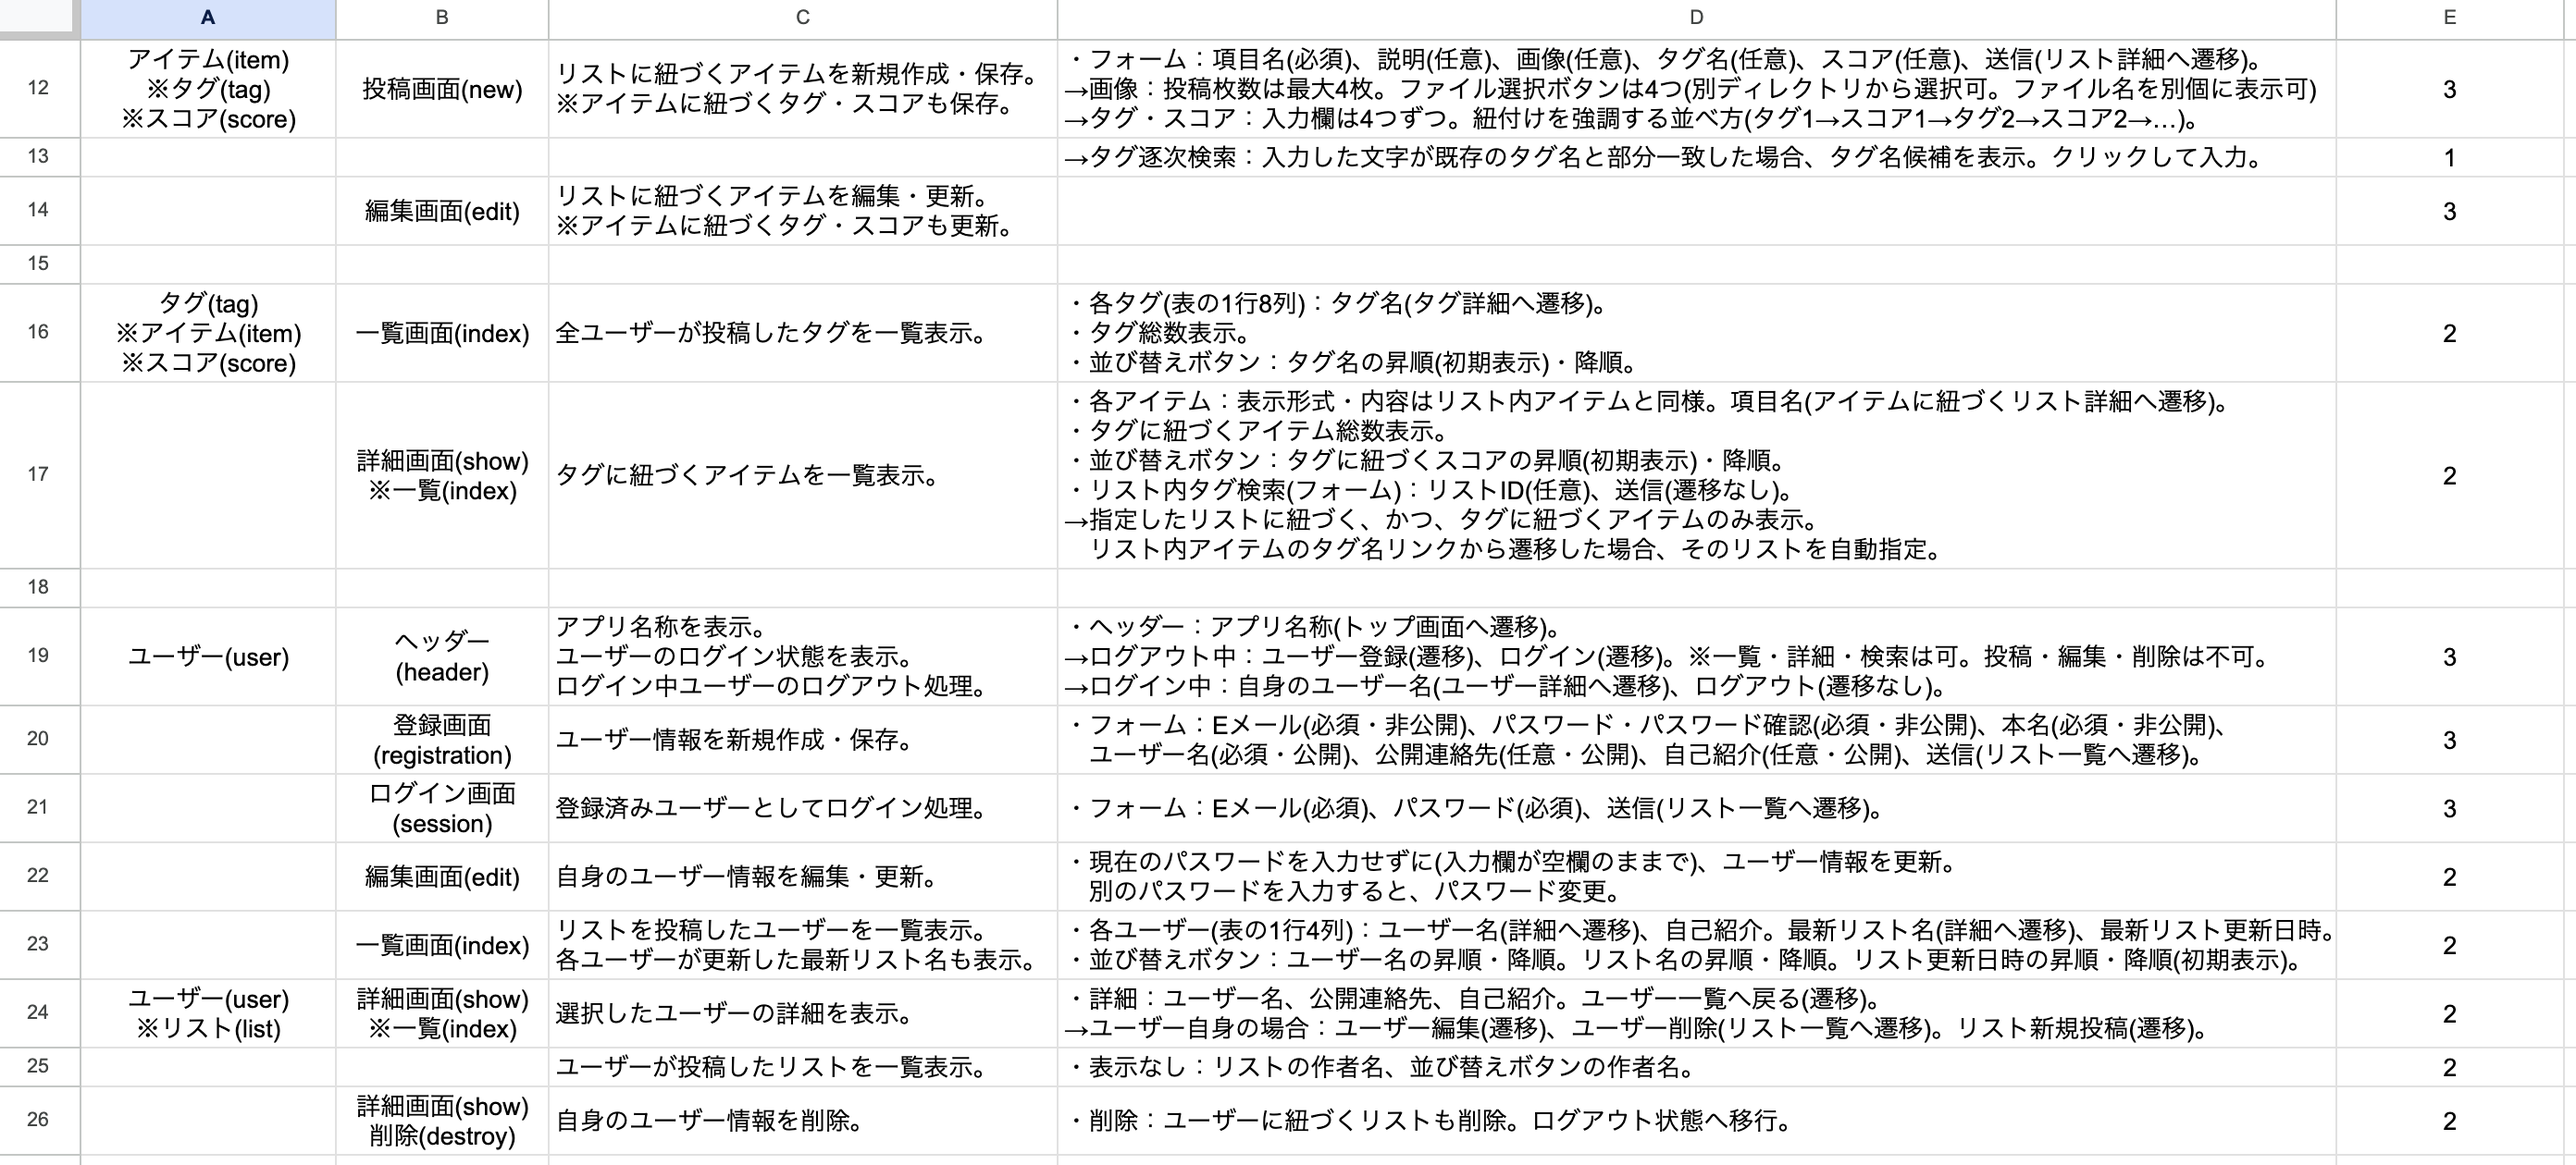
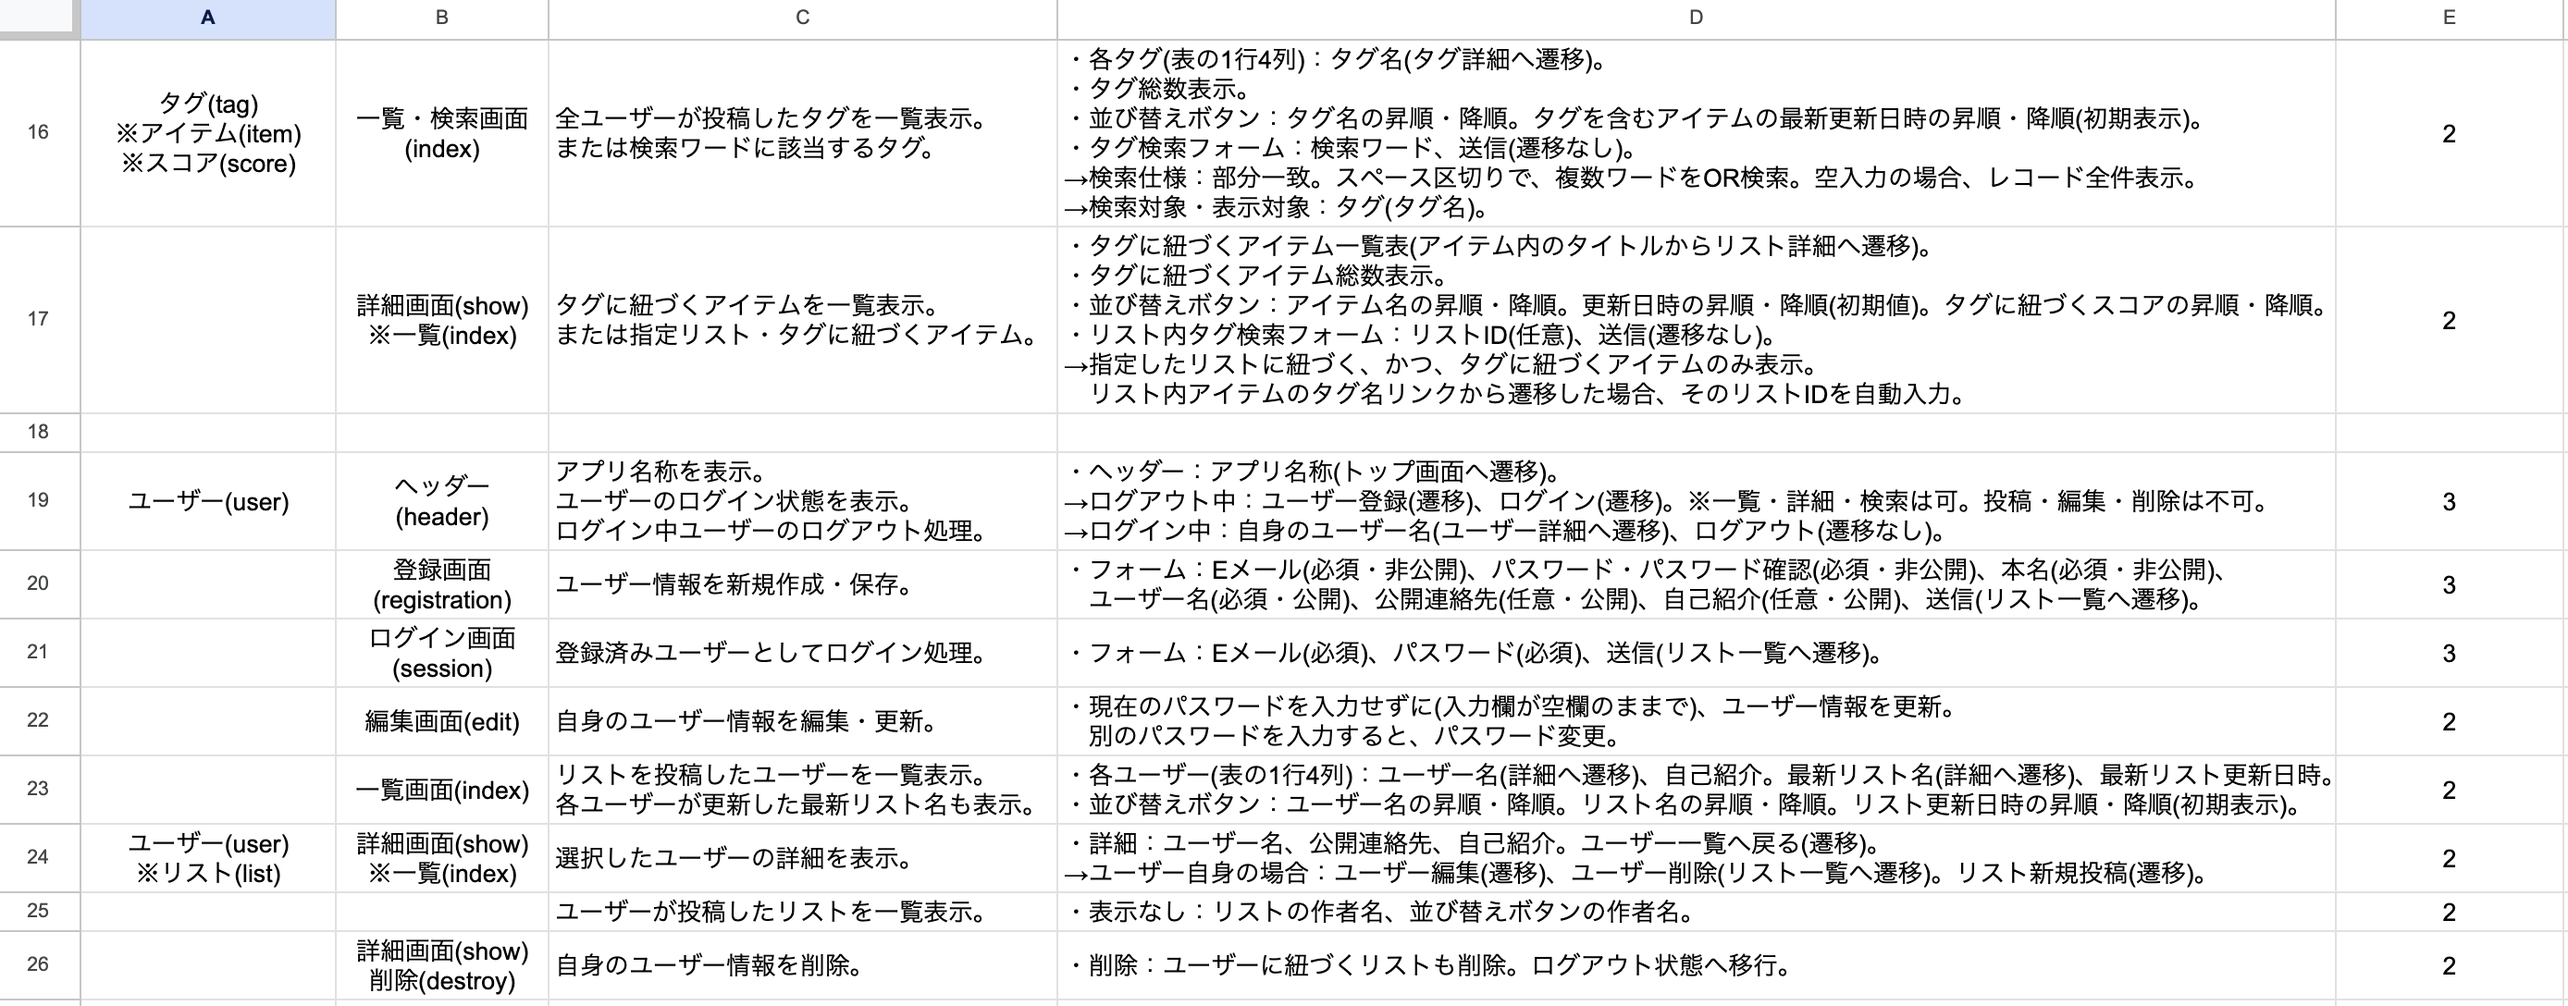
#12-2-2(修正) README

diff --git a/app/controllers/searches_controller.rb b/app/controllers/searches_controller.rb
@@ -1,12 +1,15 @@
 class SearchesController < ApplicationController
-  def search
-    branch_of_search(search_params) if search_params[:word].present? && search_params[:word] != ""
 
-    @q.sorts = "updated_at DESC" if @q.sorts.empty?
-    if search_params[:model] == "List"
-      @lists = @q.result.preload(:user)
-    elsif search_params[:model] == "Item"
-      @items = @q.result.preload(:list, :tags)
+  # application_controller.rb (def branch_of_search) ：List, Item, Tagモデルのキーワード検索。params[:model]の値により条件分岐。
+  def search
+    if search_params[:word].present? && search_params[:word] != ""
+      branch_of_search(search_params)
+      @q.sorts = "updated_at DESC" if @q.sorts.empty?
+      if search_params[:model] == "List"
+        @lists = @q.result.preload(:user)
+      elsif search_params[:model] == "Item"
+        @items = @q.result.preload(:list, :tags)
+      end
     end
   end
 end

diff --git a/app/controllers/tags_controller.rb b/app/controllers/tags_controller.rb
@@ -1,5 +1,6 @@
 class TagsController < ApplicationController
 
+  # application_controller.rb (def branch_of_search) ：List, Item, Tagモデルのキーワード検索。params[:model]の値により条件分岐。
   # tag.rb (has_one :latest_item_tag) ：タグを含むアイテムの最新更新日時1件ずつを取得する(N+1を回避)。
   def index
     if search_params[:word].present? && search_params[:word] != ""

diff --git a/README.md b/README.md
@@ -37,7 +37,7 @@
 　(3)リストやアイテムの一覧表示を並び替える。  
 　(※未実装)自作リストの場合、ドラッグ＆ドロップにより、アイテム一覧を任意の順番に並び替え、保存できる。  
 <br>
-　(4)ワード検索(※実装済み)やタグ検索(※未実装)により、他ユーザーの投稿したリストやアイテムを表示する。  
+　(4)ワード検索やタグ検索により、他ユーザーの投稿したリストやアイテムを表示する。  
 
 　(5)他ユーザーが更新した最新のリスト名を、ユーザー一覧(※実装済み)やフォロー一覧(※未実装)で表示する。  
 
@@ -118,8 +118,8 @@
 <br>
 <br>
 
-### 2-1-3. リスト一覧・アイテム一覧の並び替え
-　(1)リスト一覧ページの並び替えボタン(列の見出し)をクリックするたびに、昇順・降順を切り替える(タイトル・作者名・更新日時)。  
+### 2-1-3. リスト一覧やアイテム一覧の表示・並び替え
+　(1)リスト一覧ページの並び替えボタン(列の見出し)をクリックするたびに、昇順・降順を切り替える(タイトル、作者名、更新日時)。  
 <br>
 /lists  
 ![画像：2-1-3(1)feature](app/assets/images/readme/2-1-3(1)feature.png)
@@ -127,10 +127,10 @@
 <br>
 <br>
 
-　(2)リスト詳細ページ(＝アイテム一覧)の並び替えボタンをクリックするたびに、昇順・降順を切り替える(アイテム名・更新日時)。  
+　(2)リスト詳細ページ(＝アイテム一覧)の並び替えボタンをクリックするたびに、昇順・降順を切り替える(アイテム名、更新日時)。  
 　※アイテムに紐づくタグ・スコアも、アイテムとセットで並び替える。  
 
-　※指定したタグのスコアによる並び替え機能は、下記2-2-6の機能として実装予定。  
+　※指定したタグのスコア順によるアイテム並び替え機能は、後述2-1-6(5)のタグ検索ページ内にて実装。  
 <br>
 /lists/1  
 ![画像：2-1-3(2)(A)feature](app/assets/images/readme/2-1-3(2)(A)feature.png)
@@ -140,9 +140,9 @@
 <br>
 <br>
 
-### 2-1-4. ユーザー情報の表示、各ユーザーの最新リストタイトルの表示
+### 2-1-4. ユーザー一覧：各ユーザーの最新リストタイトルと共に表示・並び替え
 　(1)トップページ(＝リスト一覧ページ)で、ユーザー一覧をクリックする。  
-　(2)ユーザー一覧ページの並び替えボタン(列の見出し)をクリックするたびに、昇順・降順を切り替える(ユーザー名・最新リストタイトル・最新リスト更新日時)。  
+　(2)ユーザー一覧ページの並び替えボタン(列の見出し)をクリックするたびに、昇順・降順を切り替える(ユーザー名、最新リストタイトル、最新リスト更新日時)。  
 　(3)ユーザー一覧ページで、最新リストタイトルをクリックすると、リスト詳細ページを表示できる。  
 <br>
 /users  
@@ -167,9 +167,9 @@
 <br>
 <br>
 
-### 2-1-5. キーワード検索：リスト・アイテムの表示
+### 2-1-5. キーワード検索：リストやアイテムの表示・並び替え
 　(1)トップページ(＝リスト一覧ページ)で、キーワード検索をクリックする。  
-　(2)検索ワードを入力する。ワード同士をスペースで区切ると、複数のワードで検索できる。部分一致検索。  
+　(2)検索ワードを入力する(部分一致検索)。ワード同士をスペースで区切ると、複数のワードで検索できる。  
 
 　(3)AND検索ボタンをクリックする。複数ワードを全てを含む条件で検索できる。  
 　または、OR検索ボタンをクリックする。複数ワードのいずれかを含む条件で検索できる。  
@@ -182,21 +182,40 @@
 　※アイテム一覧表では、各アイテム内のリストタイトルをクリックすると、リスト詳細ページを表示できる。  
 <br>
 /search  
-![画像：2-1-5(1)feature](app/assets/images/readme/2-1-5(1)feature.png)
+![画像：2-1-5(5)(A)feature](app/assets/images/readme/2-1-5(5)(A)feature.png)
 <br>
 <br>
 /search  
-![画像：2-1-5(2)feature](app/assets/images/readme/2-1-5(2)feature.png)
+![画像：2-1-5(5)(B)feature](app/assets/images/readme/2-1-5(5)(B)feature.png)
+<br>
+<br>
+<br>
+
+### 2-1-6. タグ検索：タグ(とリスト)を指定してアイテム表示、タグのスコア順にアイテム並び替え
+　(1)トップページ(＝リスト一覧ページ)で、タグ検索をクリックする。投稿されたタグを全件一覧表示できる。  
+　(2)検索ワードを入力した場合、該当するタグのみを一覧表示できる(部分一致検索、OR検索)。  
+<br>
+　(3)並び替えボタンをクリックするたびに、昇順・降順を切り替える(タグ名、タグを含むアイテムの最新更新日時)。最近使われたタグを優先的に表示することもできる。  
+
+　(4)タグ一覧のタグ名をクリックすると、タグ詳細ページを表示できる。  
+<br>
+/tags  
+![画像：2-1-6(4)feature](app/assets/images/readme/2-1-6(4)feature.png)
+<br>
+<br>
+<br>
+　(5)タグ詳細ページで、タグを含むアイテム一覧を、表示・並び替えできる(アイテム名、更新日時、タグスコア)。特定のタグのスコアを基準にして、アイテムを並び替えることもできる。  
+<br>
+　(6)リスト番号を入力した場合、特定のリストとタグに紐づくアイテムのみを表示・並び替えできる。  
+　※リスト詳細ページで、アイテム一覧のタグ名リンクをクリックした場合、リスト番号は自動入力される。  
+<br>
+/tags/9  
+![画像：2-1-6(6)feature](app/assets/images/readme/2-1-6(6)feature.png)
 <br>
 <br>
 <br>
 
 ## 2-2. 実装予定
-### 2-2-6. タグ検索
-　(1)タグに紐づく全アイテムの表示。  
-　(2)指定したリストとタグに紐づくアイテムの表示。指定したタグのスコアによる並び替え。  
-<br>
-
 ### 2-2-2(4) タグ投稿：タグ入力時の逐次検索(JavaScript)
 <br>
 
